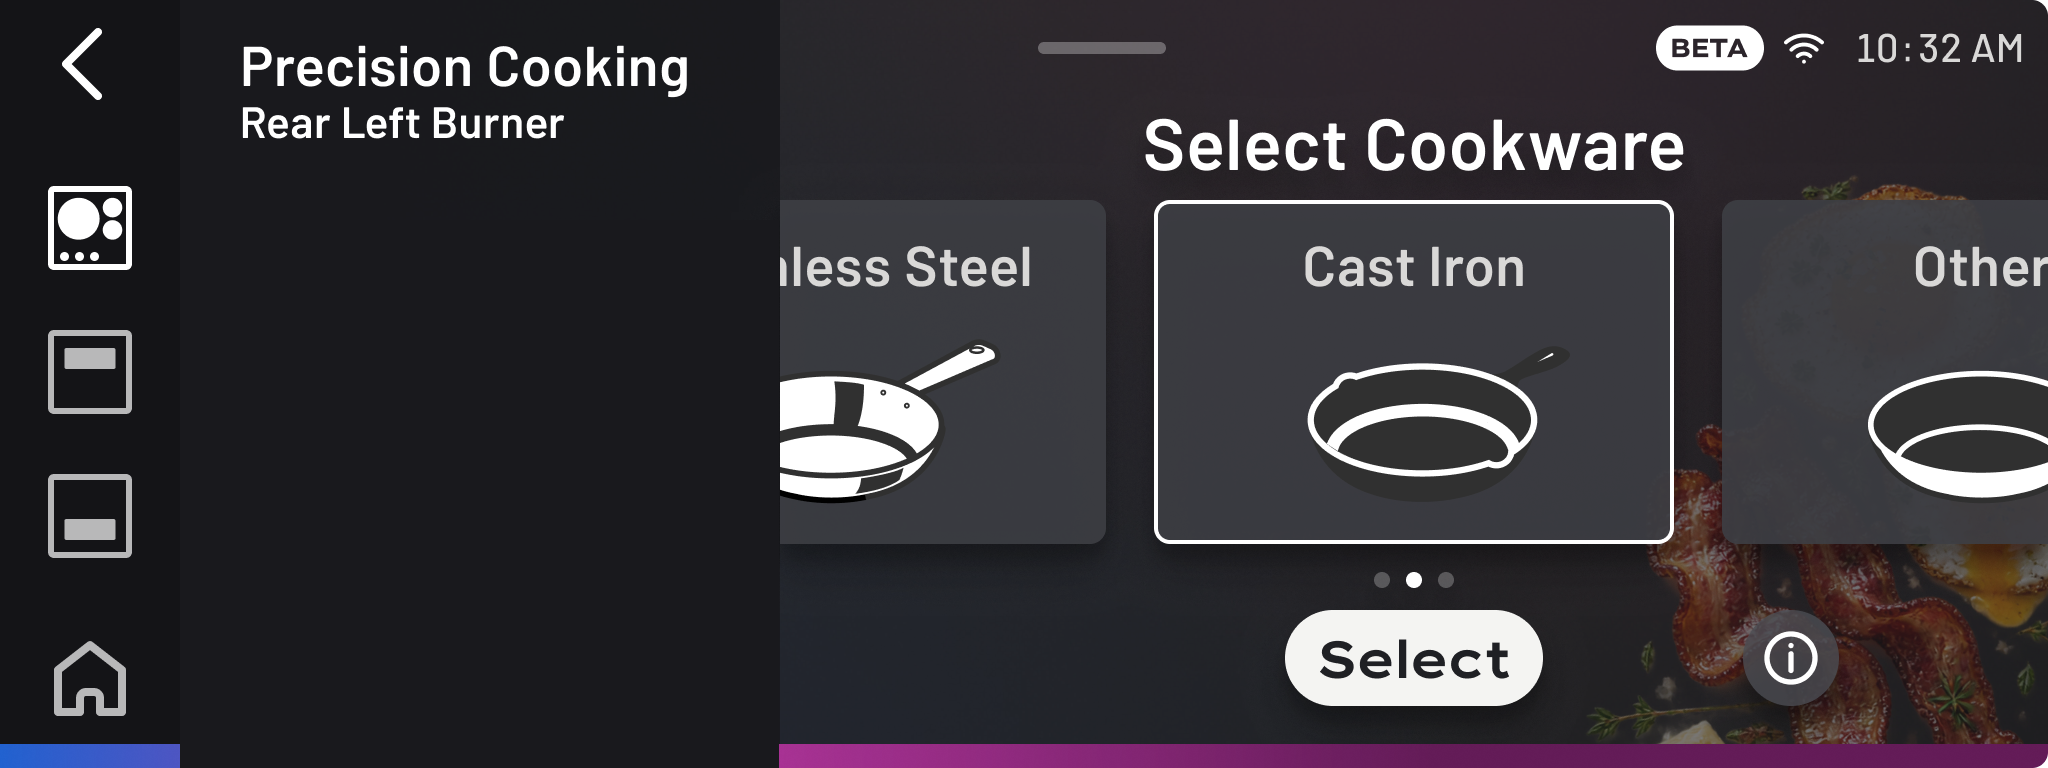
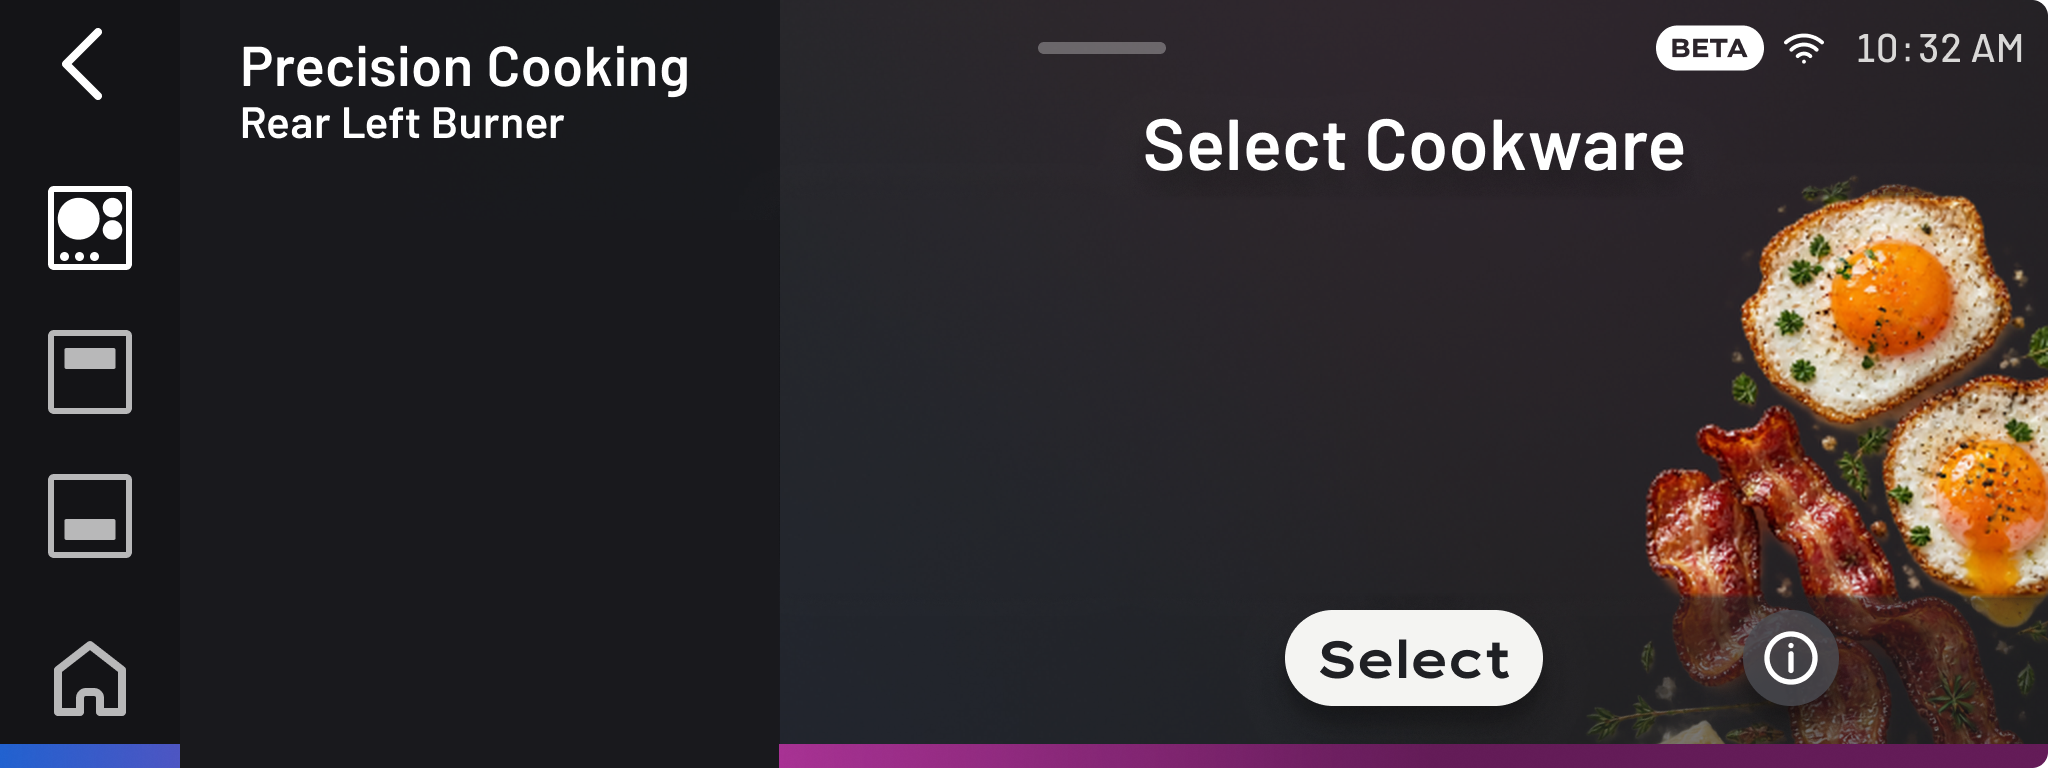
Implement horizontal scrollable cookware selection carousel matching Figma 3409:25225

diff --git a/app.js b/app.js
@@ -306,14 +306,16 @@
     t3BtnCookwareEdit: document.getElementById("t3BtnCookwareEdit"),
     t3BtnKeypadFromTemp: document.getElementById("t3BtnKeypadFromTemp"),
 
-    // Task 3B: Select Cookware Screen (Figma 3407:25065)
+    // Task 3B: Select Cookware Screen (Figma 3407:25065 & 3409:25225)
     t3ScreenSelectCookware: document.getElementById("t3ScreenSelectCookware"),
     t3BtnBackFromCookware: document.getElementById("t3BtnBackFromCookware"),
     t3SideDrawerCookware: document.getElementById("t3SideDrawerCookware"),
-    t3CookwareCardsContainer: document.getElementById("t3CookwareCardsContainer"),
+    t3CookwareCarouselViewport: document.getElementById("t3CookwareCarouselViewport"),
+    t3CookwareScrollTrack: document.getElementById("t3CookwareScrollTrack"),
     t3CardStainless: document.getElementById("t3CardStainless"),
     t3CardCastIron: document.getElementById("t3CardCastIron"),
     t3CardOther: document.getElementById("t3CardOther"),
+    t3CookwarePagination: document.getElementById("t3CookwarePagination"),
     t3BtnSelectCookware: document.getElementById("t3BtnSelectCookware"),
     t3BtnCookwareInfo: document.getElementById("t3BtnCookwareInfo"),
 
@@ -2433,6 +2435,22 @@
         scrollToT3Temp(state.task3TargetTemp || 375, false);
       });
     }
+    if (stage === "selectCookware") {
+      const drawer = document.getElementById("t3SideDrawerCookware");
+      if (drawer) {
+        drawer.querySelectorAll(".pc-drawer-item").forEach(item => {
+          item.classList.toggle("is-active", item.dataset.t3tab === "temperature");
+        });
+      }
+      requestAnimationFrame(() => {
+        let targetIdx = 1;
+        if (state.selectedCookware === "Stainless") targetIdx = 0;
+        else if (state.selectedCookware === "Other") targetIdx = 2;
+        if (typeof window.scrollToCookwareIndex === "function") {
+          window.scrollToCookwareIndex(targetIdx, false);
+        }
+      });
+    }
   }
 
   // Content-only slide transition between Precision Cooking tabs (Temperature, Food, Technique)
@@ -3880,6 +3898,120 @@
       els.t3BtnStartTemp.addEventListener("touchstart", handleStart, { passive: false });
     }
 
+    // Cookware Selection Carousel Setup (Figma 3407:25065 & 3409:25225)
+    const cookwareViewport = els.t3CookwareCarouselViewport;
+    const cookwareCards = [
+      { el: els.t3CardStainless, name: "Stainless Steel", shortName: "Stainless", index: 0 },
+      { el: els.t3CardCastIron, name: "Cast Iron", shortName: "Cast Iron", index: 1 },
+      { el: els.t3CardOther, name: "Other", shortName: "Other", index: 2 }
+    ];
+    const cookwareDots = els.t3CookwarePagination ? Array.from(els.t3CookwarePagination.querySelectorAll(".t3-cookware-dot")) : [];
+
+    const CARD_STEP = 284; // 260px card width + 24px gap
+    let isCookwareDragging = false;
+    let cookwareStartX = 0;
+    let cookwareScrollStart = 0;
+    let cookwareHasDragged = false;
+    let cookwareScrollRaf = null;
+
+    function updateCookwareUI(activeIndex) {
+      activeIndex = Math.max(0, Math.min(cookwareCards.length - 1, activeIndex));
+      const targetCard = cookwareCards[activeIndex];
+      if (targetCard) {
+        state.selectedCookware = targetCard.shortName;
+      }
+      cookwareCards.forEach((c, idx) => {
+        if (c.el) c.el.classList.toggle("is-active", idx === activeIndex);
+      });
+      cookwareDots.forEach((dot, idx) => {
+        dot.classList.toggle("is-active", idx === activeIndex);
+      });
+    }
+
+    function scrollToCookwareIndex(index, smooth = true) {
+      if (!cookwareViewport) return;
+      index = Math.max(0, Math.min(cookwareCards.length - 1, index));
+      updateCookwareUI(index);
+      cookwareViewport.scrollTo({
+        left: index * CARD_STEP,
+        behavior: smooth ? "smooth" : "auto"
+      });
+    }
+    window.scrollToCookwareIndex = scrollToCookwareIndex;
+
+    if (cookwareViewport) {
+      // Mouse drag support
+      const onCookwarePointerDown = (e) => {
+        isCookwareDragging = true;
+        cookwareHasDragged = false;
+        cookwareStartX = e.clientX ?? (e.touches && e.touches[0] ? e.touches[0].clientX : 0);
+        cookwareScrollStart = cookwareViewport.scrollLeft;
+      };
+
+      const onCookwarePointerMove = (e) => {
+        if (!isCookwareDragging) return;
+        const currentX = e.clientX ?? (e.touches && e.touches[0] ? e.touches[0].clientX : 0);
+        const diff = currentX - cookwareStartX;
+        if (Math.abs(diff) > 5) {
+          cookwareHasDragged = true;
+        }
+        cookwareViewport.scrollLeft = cookwareScrollStart - diff;
+      };
+
+      const onCookwarePointerUp = () => {
+        if (!isCookwareDragging) return;
+        isCookwareDragging = false;
+        if (cookwareHasDragged) {
+          const targetIndex = Math.round(cookwareViewport.scrollLeft / CARD_STEP);
+          scrollToCookwareIndex(targetIndex, true);
+        }
+      };
+
+      cookwareViewport.addEventListener("mousedown", onCookwarePointerDown);
+      window.addEventListener("mousemove", onCookwarePointerMove);
+      window.addEventListener("mouseup", onCookwarePointerUp);
+
+      cookwareViewport.addEventListener("touchstart", onCookwarePointerDown, { passive: true });
+      cookwareViewport.addEventListener("touchmove", onCookwarePointerMove, { passive: true });
+      cookwareViewport.addEventListener("touchend", onCookwarePointerUp, { passive: true });
+
+      // Live scroll listener for active card & pagination indicator
+      cookwareViewport.addEventListener("scroll", () => {
+        if (cookwareScrollRaf) cancelAnimationFrame(cookwareScrollRaf);
+        cookwareScrollRaf = requestAnimationFrame(() => {
+          const activeIdx = Math.round(cookwareViewport.scrollLeft / CARD_STEP);
+          updateCookwareUI(activeIdx);
+        });
+      }, { passive: true });
+    }
+
+    // Card tap to center and select
+    cookwareCards.forEach(({ el, index, shortName }) => {
+      if (!el) return;
+      const onCardClick = (e) => {
+        if (cookwareHasDragged) return;
+        if (e) {
+          e.preventDefault();
+          e.stopPropagation();
+        }
+        playSound("touch");
+        scrollToCookwareIndex(index, true);
+      };
+      el.addEventListener("click", onCardClick);
+      el.addEventListener("touchend", onCardClick);
+    });
+
+    // Pagination dots tap to navigate
+    cookwareDots.forEach((dot, idx) => {
+      const onDotClick = (e) => {
+        e.stopPropagation();
+        playSound("touch");
+        scrollToCookwareIndex(idx, true);
+      };
+      dot.addEventListener("click", onDotClick);
+      dot.addEventListener("touchend", onDotClick);
+    });
+
     // Cookware Edit button on Temperature Screen (Figma 3382:21184)
     if (els.t3BtnCookwareEdit) {
       const handleCookwareEdit = (e) => {
@@ -3890,13 +4022,21 @@
         playSound("touch");
         t3Stage = "selectCookware";
         updateScreenBadge("selectCookware");
-        slideTransition(els.t3ScreenTemperature, els.t3ScreenSelectCookware, "left");
+
+        let targetIdx = 1; // Default to Cast Iron as in Figma 3407:25065
+        if (state.selectedCookware === "Stainless") targetIdx = 0;
+        else if (state.selectedCookware === "Other") targetIdx = 2;
+
+        scrollToCookwareIndex(targetIdx, false);
+        slideTransition(els.t3ScreenTemperature, els.t3ScreenSelectCookware, "left", () => {
+          scrollToCookwareIndex(targetIdx, false);
+        });
       };
       els.t3BtnCookwareEdit.addEventListener("click", handleCookwareEdit);
       els.t3BtnCookwareEdit.addEventListener("touchstart", handleCookwareEdit, { passive: false });
     }
 
-    // Select Cookware Screen Handlers (Figma 3407:25065)
+    // Select Cookware Screen Handlers (Figma 3407:25065 / 3409:25243)
     if (els.t3BtnSelectCookware) {
       const handleSelectCookware = (e) => {
         if (e) {
@@ -3937,28 +4077,6 @@
       els.t3BtnBackFromCookware.addEventListener("click", handleBackFromCookware);
       els.t3BtnBackFromCookware.addEventListener("touchstart", handleBackFromCookware, { passive: false });
     }
-
-    const cookwareCards = [
-      { el: els.t3CardStainless, name: "Stainless Steel", shortName: "Stainless" },
-      { el: els.t3CardCastIron, name: "Cast Iron", shortName: "Cast Iron" },
-      { el: els.t3CardOther, name: "Other", shortName: "Other" }
-    ];
-    cookwareCards.forEach(({ el, name, shortName }) => {
-      if (!el) return;
-      const onCardClick = (e) => {
-        if (e) {
-          e.preventDefault();
-          e.stopPropagation();
-        }
-        playSound("touch");
-        state.selectedCookware = shortName;
-        cookwareCards.forEach(c => {
-          if (c.el) c.el.classList.toggle("is-active", c.shortName === shortName);
-        });
-      };
-      el.addEventListener("click", onCardClick);
-      el.addEventListener("touchstart", onCardClick, { passive: false });
-    });
 
     if (els.t3BtnCookwareInfo) {
       els.t3BtnCookwareInfo.addEventListener("click", (e) => {

diff --git a/styles.css b/styles.css
@@ -3256,37 +3256,119 @@ input,
   will-change: transform, opacity;
 }
 
-/* Cookware Selection Cards Container (Figma 3407:25089) */
-.t3-cookware-cards-container {
+/* Horizontally Scrollable Cookware Carousel (Figma 3409:25225 - 634px content area) */
+.t3-cookware-carousel-viewport {
   position: absolute;
-  left: 203px;
+  left: 300px;
   top: 100px;
-  width: 828px;
+  width: 634px;
   height: 172px;
-  display: flex;
-  gap: 24px;
+  overflow-x: scroll;
+  overflow-y: hidden;
+  -webkit-overflow-scrolling: touch;
+  scroll-snap-type: x mandatory;
+  scrollbar-width: none;
+  -ms-overflow-style: none;
   z-index: 50;
-  pointer-events: auto;
+  cursor: grab;
+  user-select: none;
+  -webkit-user-select: none;
+}
+.t3-cookware-carousel-viewport::-webkit-scrollbar {
+  display: none;
+  width: 0;
+  height: 0;
+}
+.t3-cookware-carousel-viewport:active {
+  cursor: grabbing;
 }
 
-.t3-cookware-card-btn {
+/* Cookware Scroll Track (padding: 0 187px centers 260px cards in 634px viewport) */
+.t3-cookware-scroll-track {
+  display: flex;
+  align-items: center;
+  gap: 24px;
+  padding: 0 187px;
+  width: max-content;
+  height: 100%;
+  box-sizing: border-box;
+}
+
+/* Individual Cookware Card (260x172px, radius 8px) */
+.t3-cookware-card {
   width: 260px;
   height: 172px;
-  background: transparent;
-  border: 2px solid transparent;
+  flex-shrink: 0;
   border-radius: 8px;
-  cursor: pointer;
-  outline: none;
   box-sizing: border-box;
-  transition: transform 0.12s ease, border-color 0.15s ease, box-shadow 0.15s ease;
+  scroll-snap-align: center;
+  cursor: pointer;
+  position: relative;
+  overflow: hidden;
+  transition: transform 0.16s cubic-bezier(0.2, 0.9, 0.3, 1), box-shadow 0.16s ease;
   -webkit-tap-highlight-color: transparent;
 }
-.t3-cookware-card-btn:active {
-  transform: scale(0.98);
+.t3-cookware-card::after {
+  content: "";
+  position: absolute;
+  top: 0;
+  left: 0;
+  right: 0;
+  bottom: 0;
+  border: 2px solid transparent;
+  border-radius: 8px;
+  pointer-events: none;
+  box-sizing: border-box;
+  transition: border-color 0.16s ease, box-shadow 0.16s ease;
 }
-.t3-cookware-card-btn.is-active {
+.t3-cookware-card.is-active::after {
   border-color: #ffffff;
-  box-shadow: 0 4px 16px rgba(0, 0, 0, 0.4);
+  box-shadow: 0 4px 16px rgba(0, 0, 0, 0.45);
+}
+.t3-cookware-card:active {
+  transform: scale(0.97);
+}
+.t3-cookware-card img {
+  width: 100%;
+  height: 100%;
+  display: block;
+  object-fit: cover;
+  border-radius: 8px;
+  pointer-events: none;
+}
+
+/* Pagination Indicator Dots (Figma 3409:25241 - 8px circles with 8px gap) */
+.t3-cookware-pagination {
+  position: absolute;
+  left: 300px;
+  top: 278px;
+  width: 634px;
+  height: 24px;
+  display: flex;
+  align-items: center;
+  justify-content: center;
+  gap: 8px;
+  z-index: 52;
+  pointer-events: auto;
+}
+.t3-cookware-dot {
+  width: 8px;
+  height: 8px;
+  border-radius: 50%;
+  border: none;
+  padding: 0;
+  margin: 0;
+  background: rgba(255, 255, 255, 0.25);
+  cursor: pointer;
+  outline: none;
+  transition: background-color 0.2s ease, transform 0.2s ease;
+  -webkit-tap-highlight-color: transparent;
+}
+.t3-cookware-dot:active {
+  transform: scale(1.25);
+}
+.t3-cookware-dot.is-active {
+  background: #ffffff;
 }
 
 /* Select Button (Figma 3407:25105 - centered at 552.5px in content area / 642.5px in 1024) */

diff --git a/index.html b/index.html
@@ -749,11 +749,26 @@
                 <button type="button" class="pc-drawer-item" data-t3tab="recent" id="t3TabCookwareToRecent">Recent Used</button>
               </nav>
 
-              <!-- Cookware Selection Cards (Hotspots/Overlays for Stainless Steel, Cast Iron, Other - Figma 3407:25089) -->
-              <div class="t3-cookware-cards-container" id="t3CookwareCardsContainer">
-                <button type="button" class="t3-cookware-card-btn" data-cookware="Stainless" id="t3CardStainless" aria-label="Stainless Steel Cookware"></button>
-                <button type="button" class="t3-cookware-card-btn is-active" data-cookware="Cast Iron" id="t3CardCastIron" aria-label="Cast Iron Cookware"></button>
-                <button type="button" class="t3-cookware-card-btn" data-cookware="Other" id="t3CardOther" aria-label="Other Cookware"></button>
+              <!-- Horizontally Scrollable Cookware Carousel (Figma 3409:25225) -->
+              <div class="t3-cookware-carousel-viewport" id="t3CookwareCarouselViewport">
+                <div class="t3-cookware-scroll-track" id="t3CookwareScrollTrack">
+                  <div class="t3-cookware-card" data-cookware="Stainless" data-index="0" id="t3CardStainless" role="button" tabindex="0" aria-label="Stainless Steel Cookware">
+                    <img src="./assets/cookware/card_stainless.png" alt="Stainless Steel">
+                  </div>
+                  <div class="t3-cookware-card is-active" data-cookware="Cast Iron" data-index="1" id="t3CardCastIron" role="button" tabindex="0" aria-label="Cast Iron Cookware">
+                    <img src="./assets/cookware/card_castiron_clean.png" alt="Cast Iron">
+                  </div>
+                  <div class="t3-cookware-card" data-cookware="Other" data-index="2" id="t3CardOther" role="button" tabindex="0" aria-label="Other Cookware">
+                    <img src="./assets/cookware/card_other.png" alt="Other Cookware">
+                  </div>
+                </div>
+              </div>
+
+              <!-- Pagination Indicator Dots (Figma 3409:25241) -->
+              <div class="t3-cookware-pagination" id="t3CookwarePagination">
+                <button type="button" class="t3-cookware-dot" data-index="0" aria-label="Go to Stainless Steel"></button>
+                <button type="button" class="t3-cookware-dot is-active" data-index="1" aria-label="Go to Cast Iron"></button>
+                <button type="button" class="t3-cookware-dot" data-index="2" aria-label="Go to Other Cookware"></button>
               </div>
 
               <!-- SELECT Button (Figma Node 3407:25105) -->
